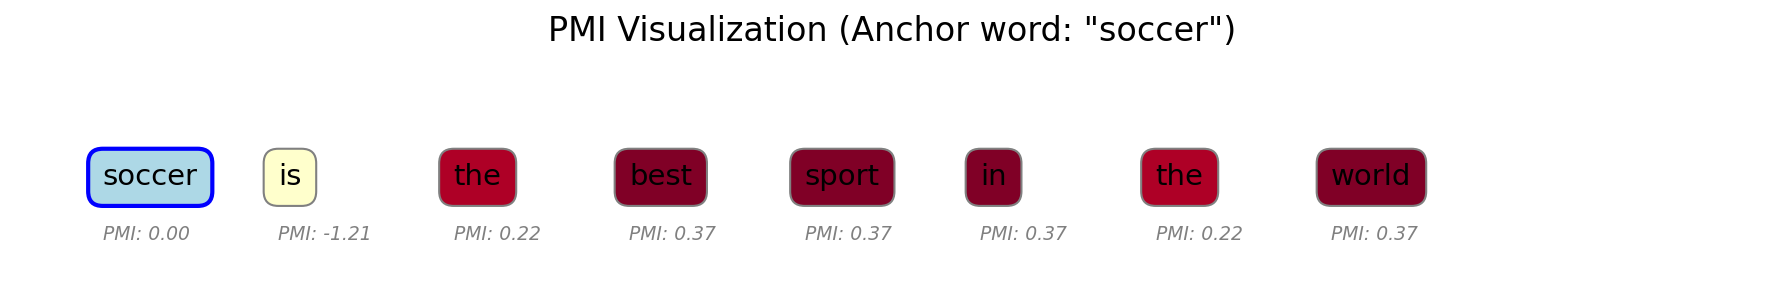
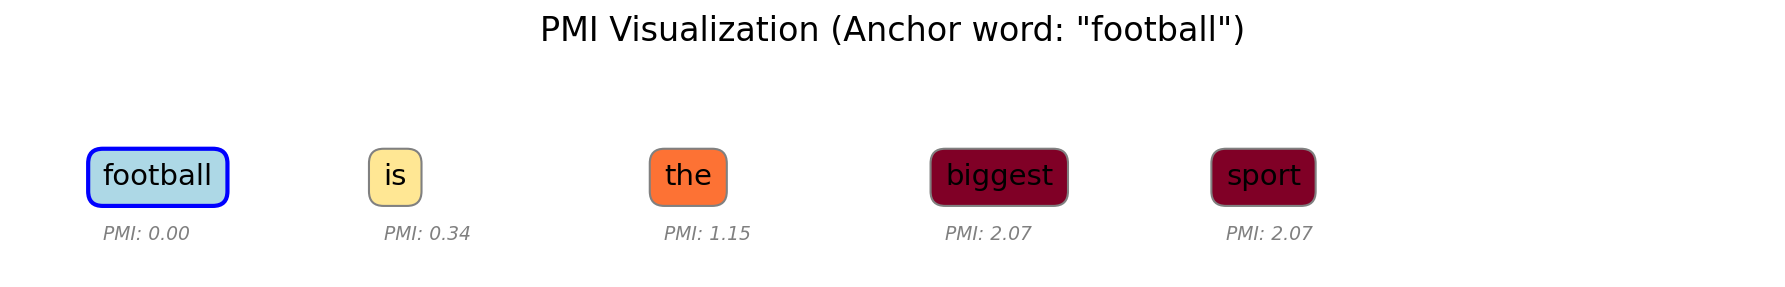
New example

diff --git a/GenerativeXAI_project/tools/calculate_pmi.py b/GenerativeXAI_project/tools/calculate_pmi.py
@@ -1,8 +1,3 @@
-# PMI(x,y)=log_2 \frac{p(\{x,y\}| s-\{x,y\})}{P(\{x\}|s-\{x,y\})P(\{y\}|s-\{x,y\})}
-# * Compute the $P(x)$, $P(y)$ and $P(x,y)$ first and print it out.
-# * Compute the PMI for each word.
-# * Visualize the result by coloring. Tips: you might need to normalize the result first. 
-
 import os
 import numpy as np
 import matplotlib.pyplot as plt
@@ -60,7 +55,7 @@ def compute_probabilities(sentence: str, responses: list[list[str]],
     for key in p_x:
         p_x[key] /= (total_samples * (len(words) - 1))  # x appears in all word pairs
     for key in p_y:
-        p_y[key] /= total_samples
+        p_y[key] /= total_samples # missing logic if a word appears multiple times
     
     return p_xy, p_x, p_y
 
@@ -106,7 +101,7 @@ def calculate_pmi(sentence: str, anchor_word_idx: int, p_xy: dict,
 
 
 def visualize_pmi(sentence: str, anchor_word_idx: int, pmi_scores: dict[str, float],
-                  save_path: str = None, figsize: tuple = (12, 2)) -> None:
+                  save_path: str | None = None, figsize: tuple = (12, 2)) -> None:
     """
     Visualize PMI scores as a colored text display.
     
@@ -140,7 +135,7 @@ def visualize_pmi(sentence: str, anchor_word_idx: int, pmi_scores: dict[str, flo
     ax.axis('off')
     
     # Color map: lighter for low PMI, darker for high PMI
-    cmap = plt.cm.YlOrRd
+    cmap = plt.get_cmap('YlOrRd')
     
     # Display words with background colors
     x_pos = 0.05
@@ -175,7 +170,6 @@ def visualize_pmi(sentence: str, anchor_word_idx: int, pmi_scores: dict[str, flo
     if save_path:
         os.makedirs(os.path.dirname(save_path), exist_ok=True)
         plt.savefig(save_path, dpi=150, bbox_inches='tight')
-        print(f"Visualization saved to {save_path}")
     
     plt.show()
 
@@ -190,9 +184,7 @@ def print_scores(p_xy: dict, p_x: dict, p_y: dict, pmi_scores: dict,
         p_x: Marginal probability for x
         p_y: Marginal probability for y
     """
-    print("COMPUTED PROBABILITIES")
-    print("="*20)
-    
+    print("COMPUTED PROBABILITIES:")    
     print("P(x) - Marginal probability of anchor word:")
     for word, prob in sorted(p_x.items(), key=lambda x: x[1], reverse=True):
         print(f"  P({word}) = {prob:.4f}")
@@ -206,6 +198,5 @@ def print_scores(p_xy: dict, p_x: dict, p_y: dict, pmi_scores: dict,
         print(f"  P({x}, {y}) = {prob:.4f}")
     
     print("PMI Scores:")
-    print("="*20)
     for word, score in pmi_scores.items():
         print(f"  PMI({sentence.split()[anchor_word_idx].lower()}, {word}) = {score:.4f}")
